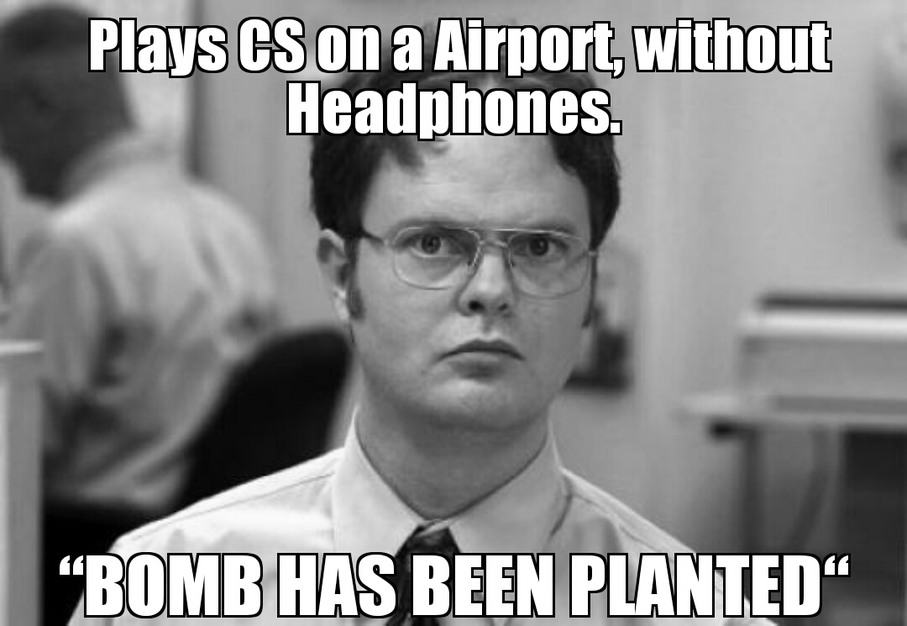
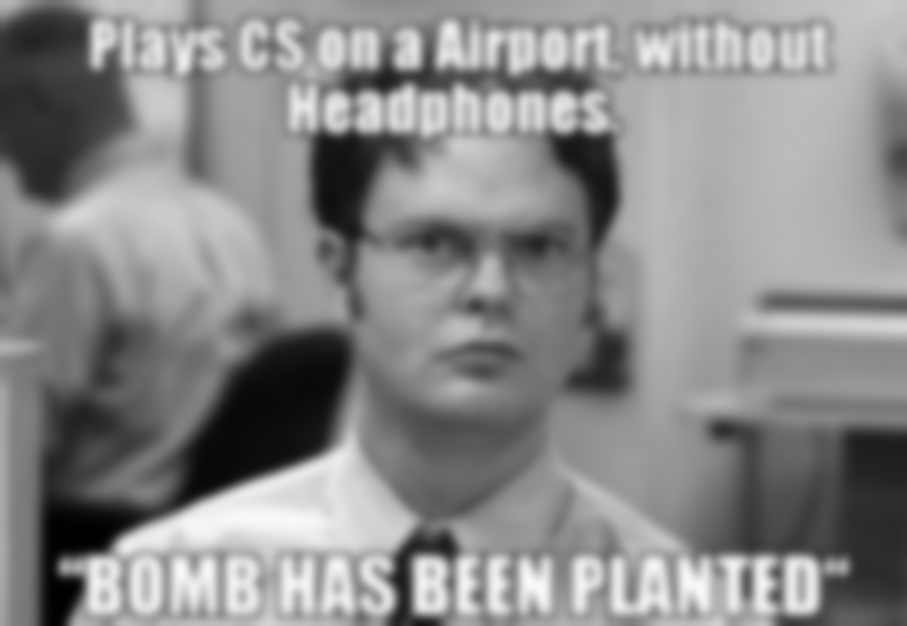
Pipeline de filtres working

diff --git a/main.py b/main.py
@@ -35,6 +35,7 @@ input_folder = ""
 output_folder = ""
 
 
+
 args = sys.argv
 
 if len(args) == 1:
@@ -86,14 +87,14 @@ elif '-i' in args:
                     img = cv.imread(f'{input_folder}{i}')
                     for item in filtre:
                         if item.startswith('grayscale'):
-                            edited = grayscale.grayscale(img)
+                            img = grayscale.grayscale(img)
                         elif item.startswith('zeteam'):
                             edited = zeteam.ze_team(img)
                         elif item.startswith('blur'):
                             number = item.split(':')
                             try:
                                 intensity = int(number[1])
-                                edited = gblur.gaussian_blur(img, intensity)
+                                img = gblur.gaussian_blur(img, intensity)
                             except IndexError:
                                 print('Please enter a value as filter intensity')
                             except ValueError:
@@ -102,7 +103,7 @@ elif '-i' in args:
                             number = item.split(':')
                             try:
                                 intensity = int(number[1])
-                                edited = dilate_effect.dilate(img, intensity)
+                                img = dilate_effect.dilate(img, intensity)
                             except IndexError:
                                 print('Please enter a value as filter intensity')
                             except ValueError:
@@ -111,10 +112,10 @@ elif '-i' in args:
                             number = item.split(':')
                             try:
                                 msg = str(number[1])
-                                edited = gmsg.message(img, msg)
+                                img = gmsg.message(img, msg)
                             except IndexError:
                                 print('Please enter a message as filter value')
-            try:
-                cv.imwrite(f'{output_folder}__{i}', edited)
-            except cv.error:
-                print("")
+                    try:
+                        cv.imwrite(f'{output_folder}__{i}', img)
+                    except cv.error:
+                        print("")

diff --git a/filters/blur.py b/filters/blur.py
@@ -6,6 +6,5 @@ def gaussian_blur(img, intensity):
     try:
         edited = cv2.GaussianBlur(img,(intensity,intensity),0)
         lg.logs(f'Blur filter applied to picture')
-        return edited
     except cv2.error:
-        print('Please select an impair value')
+        print('Please enter an impair value')
